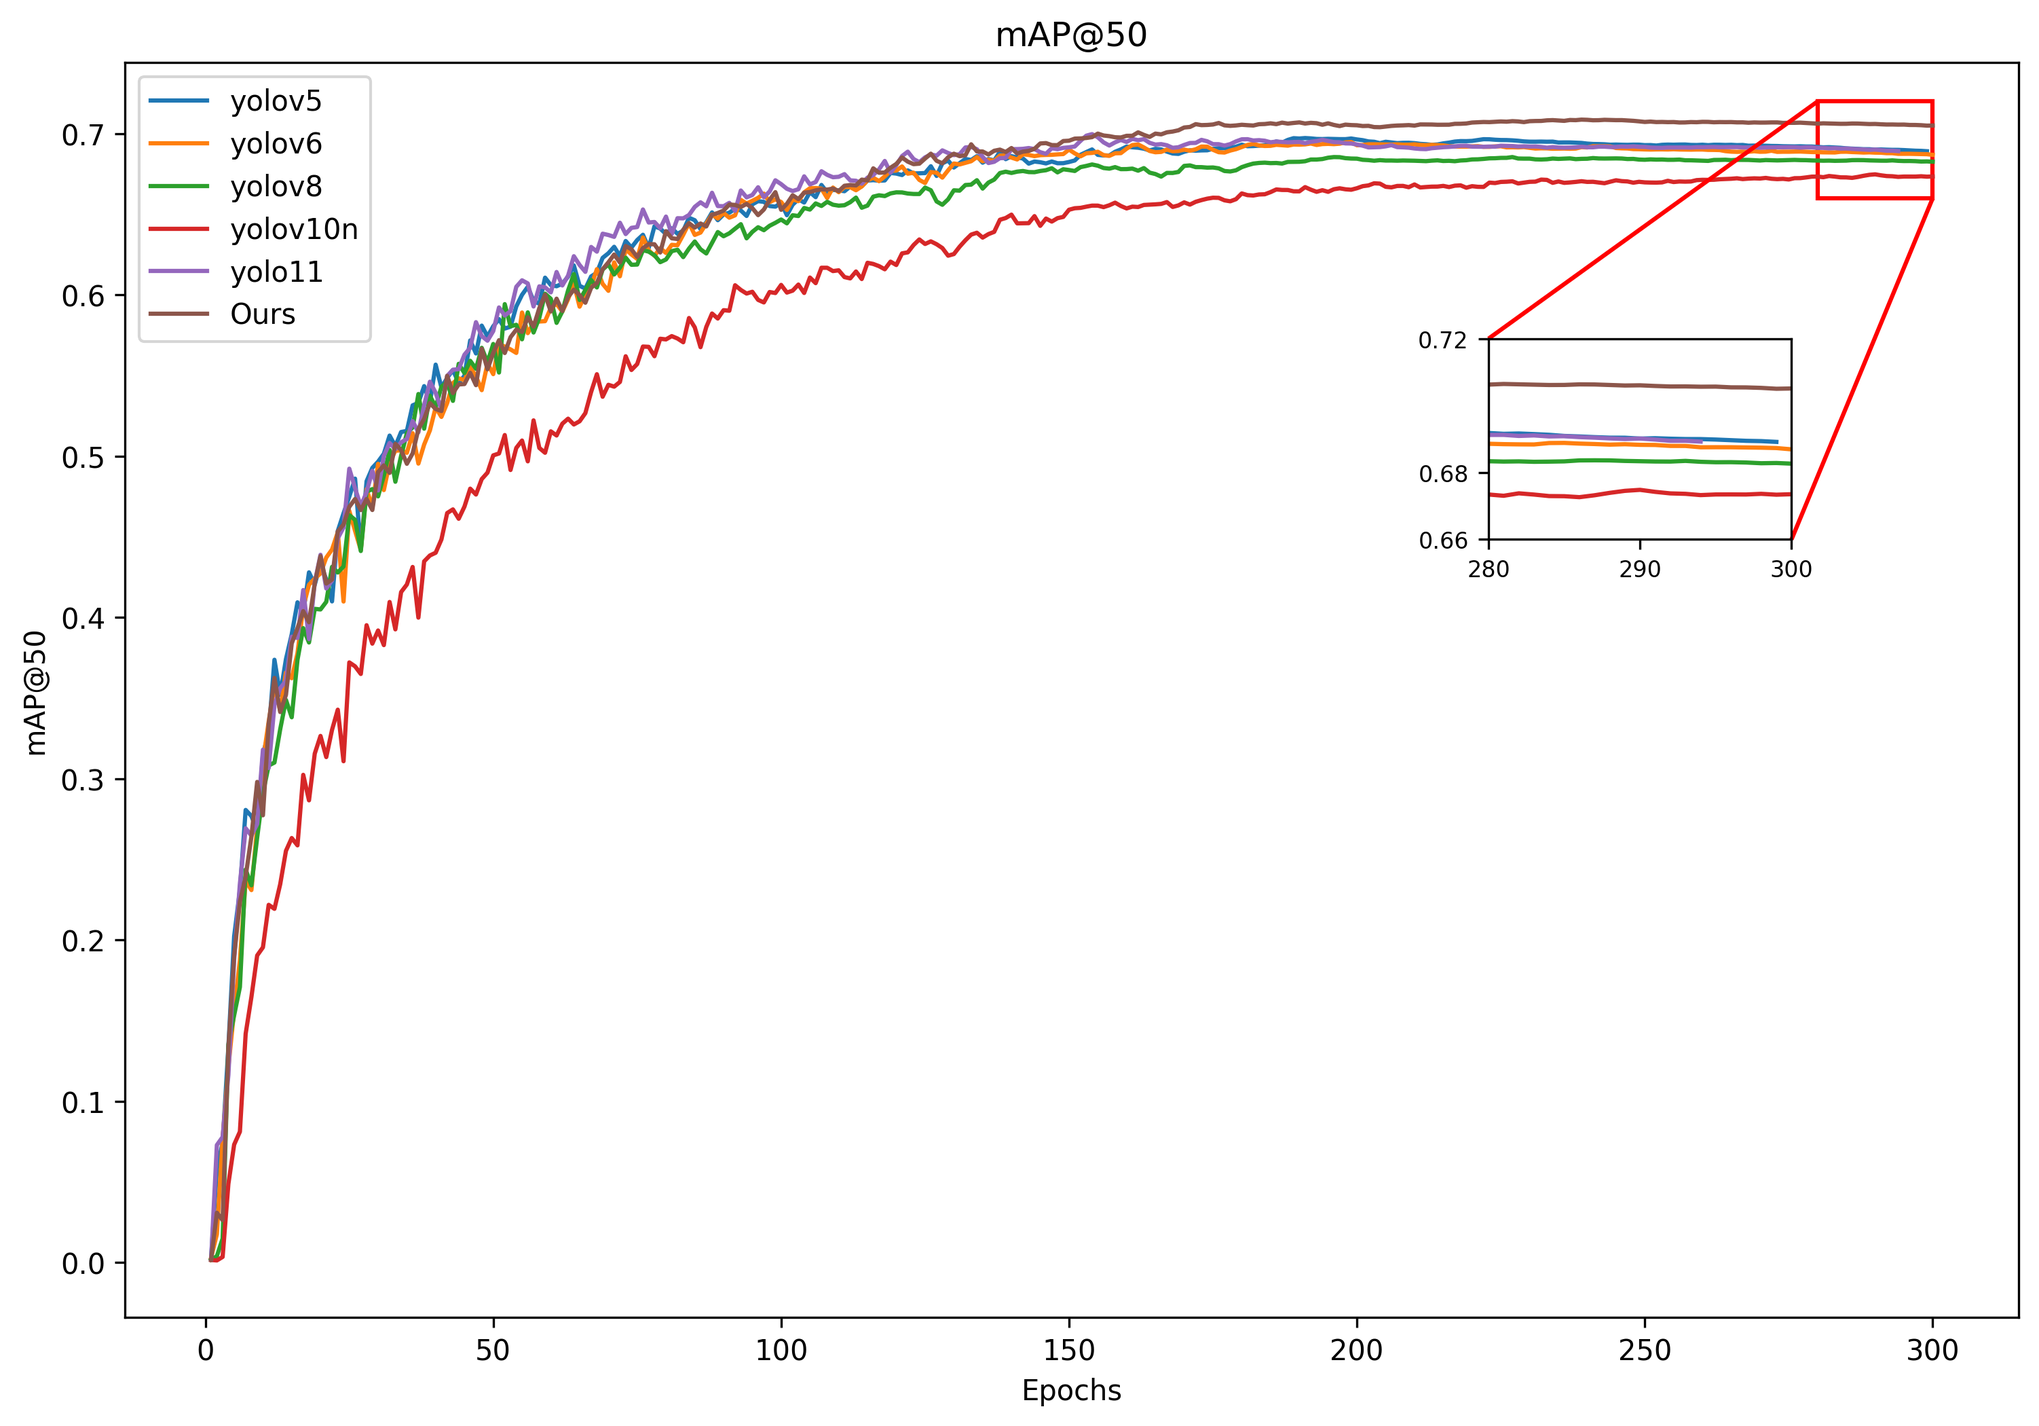
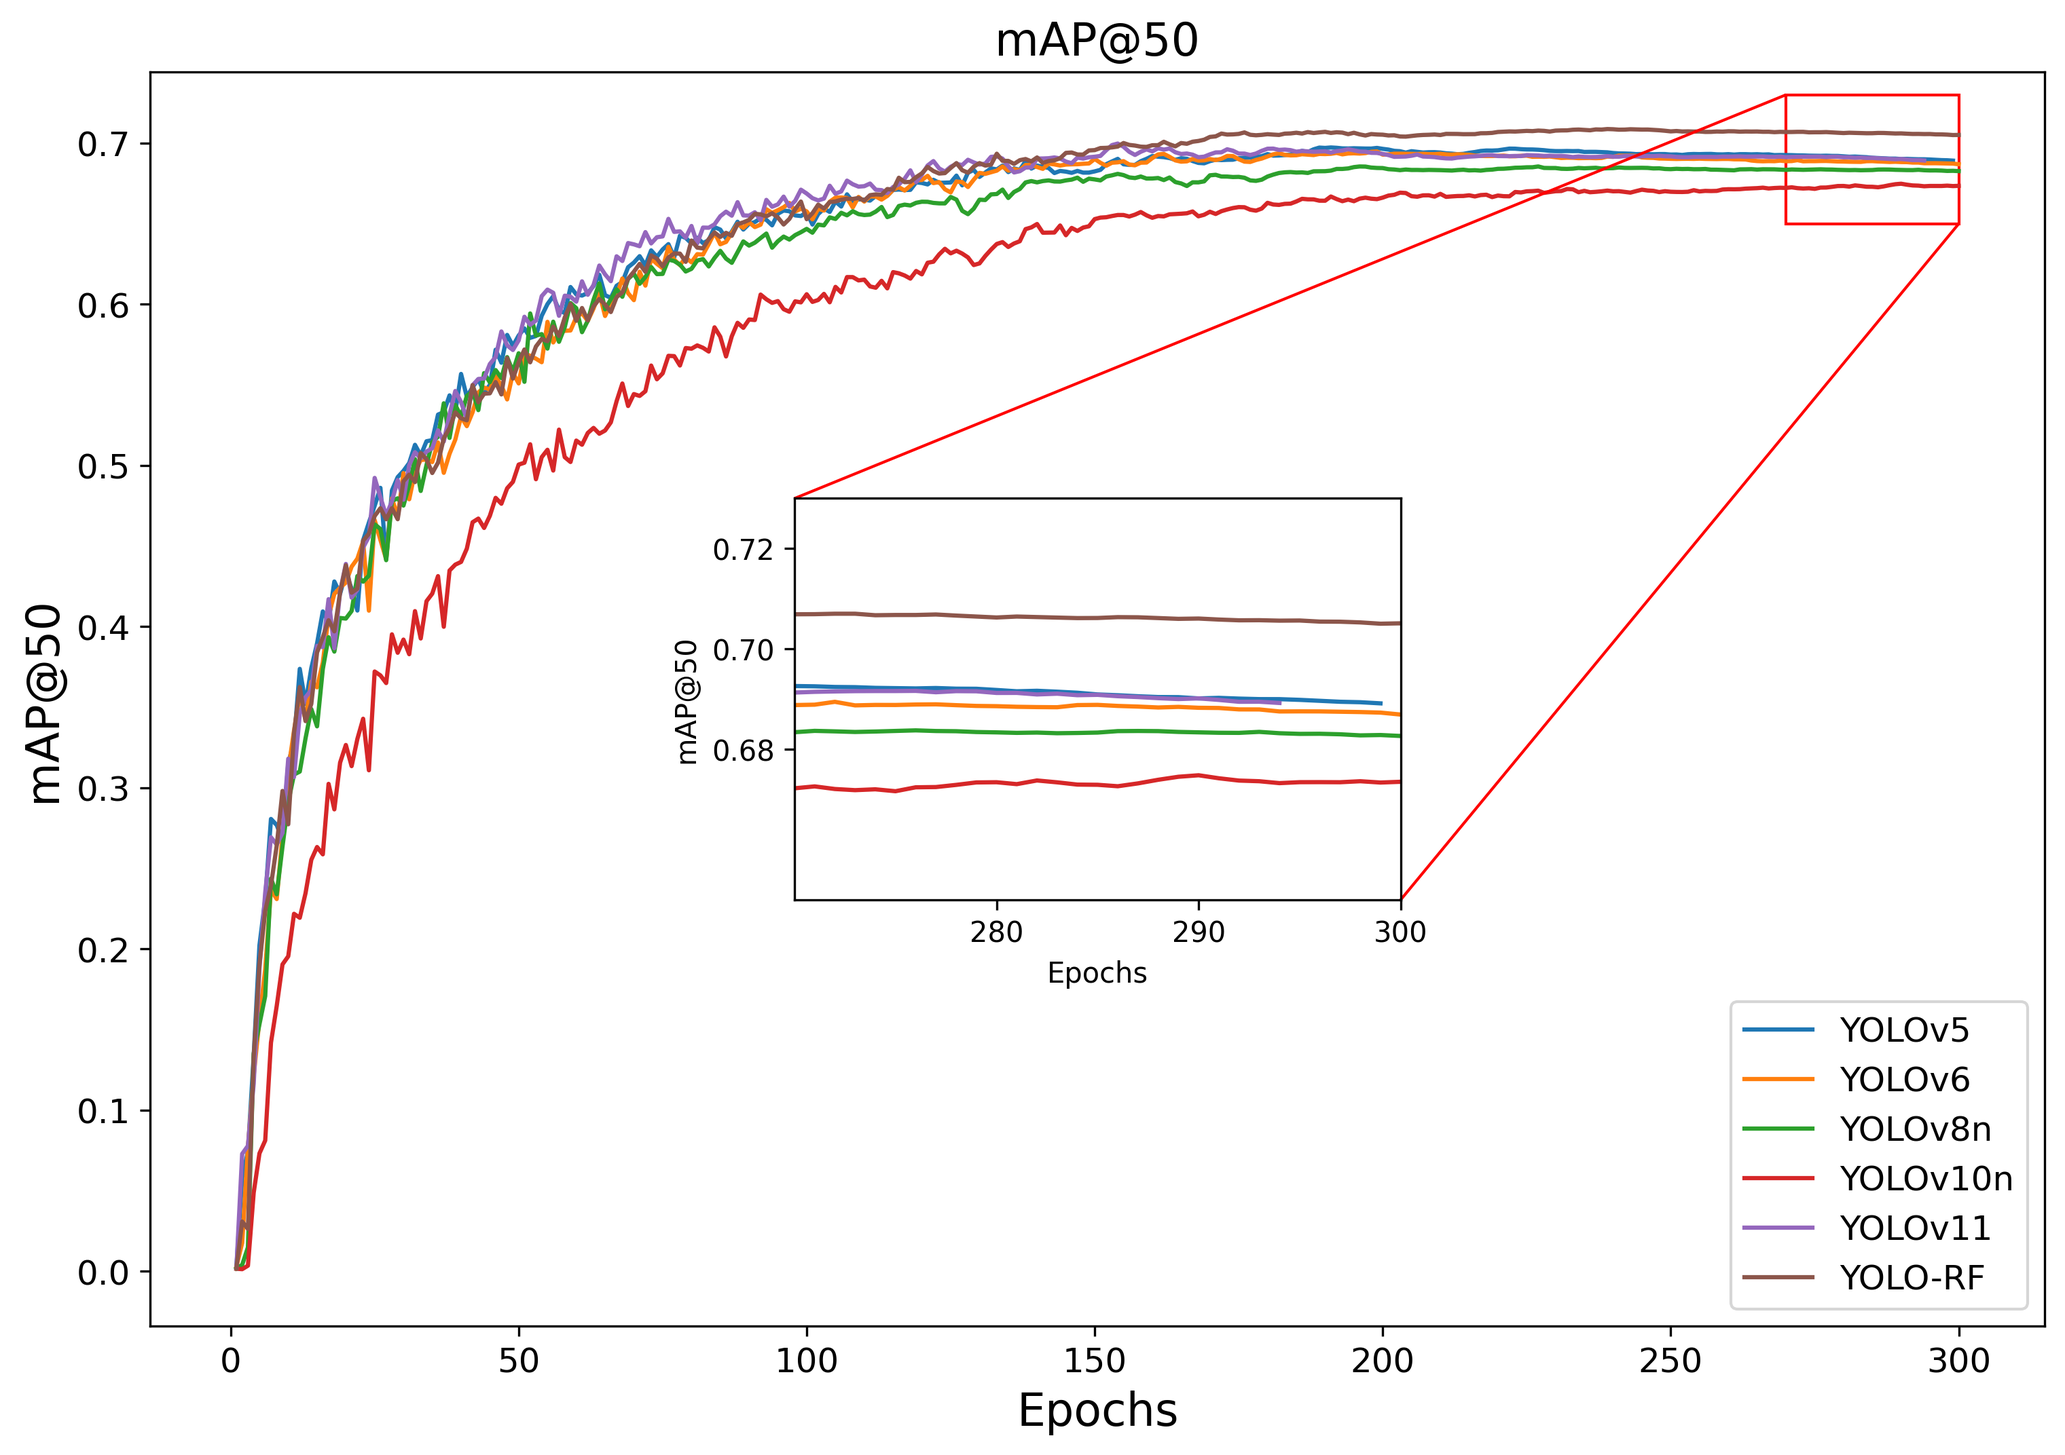
添加绘图

diff --git a/plot_maps/plot_single_map_stbd08-zoom-map50.py b/plot_maps/plot_single_map_stbd08-zoom-map50.py
@@ -4,22 +4,22 @@ from mpl_toolkits.axes_grid1.inset_locator import inset_axes, mark_inset
 
 # 训练结果列表
 results_files = [
-    '/final/improved-yolov11/runs/train/SCB3/yolov5/results.csv',
-    '/final/improved-yolov11/runs/train/SCB3/yolov6/results.csv',
-    '/final/improved-yolov11/runs/train/SCB3/yolov8/results.csv',
-    '/final/improved-yolov11/runs/train/SCB3/yolov10n/results.csv',
-    '/final/improved-yolov11/runs/train/SCB3/yolo11/results.csv',
-    '/final/improved-yolov11/runs/train/SCB3/yolo11-FPSC-RGCSPELAN/results.csv',
+    '/final/FRNet/runs/train/STBD-08/yolov5/results.csv',
+    '/final/FRNet/runs/train/STBD-08/yolov6/results.csv',
+    '/final/FRNet/runs/train/STBD-08/yolov8/results.csv',
+    '/final/FRNet/runs/train/STBD-08/yolov10n/results.csv',
+    '/final/FRNet/runs/train/STBD-08/yolo11/results.csv',
+    '/final/FRNet/runs/train/STBD-08/yolo11-FPSC-RGCSPELAN/results.csv',
 ]
 
 # 与results_files顺序对应
 custom_labels = [
-    'yolov5',
-    'yolov6',
-    'yolov8',
-    'yolov10n',
-    'yolo11',
-    'Ours',
+    'YOLOv5',
+    'YOLOv6',
+    'YOLOv8n',
+    'YOLOv10n',
+    'YOLOv11',
+    'YOLO-RF',
 ]
 
 def plot_metric_comparison_with_zoom(metric_key, metric_label, custom_labels):
@@ -37,15 +37,17 @@ def plot_metric_comparison_with_zoom(metric_key, metric_label, custom_labels):
         # 绘制主图
         plt.plot(df['epoch'], df[metric_key], label=custom_label)
 
-    plt.title(metric_label)
-    plt.xlabel('Epochs')
-    plt.ylabel(metric_label)
-    plt.legend()
+    plt.title(metric_label, fontsize=16)
+    plt.xlabel('Epochs', fontsize=16)
+    plt.ylabel(metric_label, fontsize=16)
+    plt.xticks(fontsize=12)  # 调整 x 轴刻度字体大小
+    plt.yticks(fontsize=12)  # 调整 y 轴刻度字体大小
+    plt.legend(fontsize=12)  # 调整图例字体大小
 
     # 添加放大镜
     ax_main = plt.gca()
-    ax_inset = inset_axes(ax_main, width="40%", height="40%", loc='center',
-                          bbox_to_anchor=(0.6, 0.5, 0.4, 0.4), bbox_transform=ax_main.transAxes)
+    ax_inset = inset_axes(ax_main, width="80%", height="80%", loc='center',
+                          bbox_to_anchor=(0.3, 0.3, 0.4, 0.4), bbox_transform=ax_main.transAxes)
 
     # 绘制放大图
     for file_path, custom_label in zip(results_files, custom_labels):
@@ -59,21 +61,22 @@ def plot_metric_comparison_with_zoom(metric_key, metric_label, custom_labels):
 
     # 设置放大图区域范围
     ax_inset.set_xlim(280, 300)  # 这里设置放大图的x轴范围
-    ax_inset.set_ylim(0.47, 0.52)  # 这里设置放大图的y轴范围
+    ax_inset.set_ylim(0.89, 0.93)  # 这里设置放大图的y轴范围
     ax_inset.set_xticks([280, 290, 300])
-    ax_inset.set_yticks([0.47, 0.50, 0.52])
-    ax_inset.tick_params(labelsize=8)
+    ax_inset.set_yticks([0.89, 0.90, 0.93])
+    ax_inset.tick_params(labelsize=10)
+    ax_inset.set_xlabel('Epochs', fontsize=10)  # 设置放大图 x 轴标签字体
+    ax_inset.set_ylabel(metric_label, fontsize=10)  # 设置放大图 y 轴标签字体
 
     # 标记放大区域
     mark_inset(ax_main, ax_inset, loc1=2, loc2=4, fc="none", ec="red", lw=1.5)
 
     # 保存并显示图像
-    save_path = f'/final/improved-yolov11/plot_results/scbd3/{metric_label}_zoomed.png'
+    save_path = f'/final/FRNet/plot_results/stbd08/{metric_label}_zoomed.png'
     plt.savefig(save_path, dpi=300, bbox_inches='tight')
     print(f"Saved plot to {save_path}")
     plt.show()
 
 if __name__ == '__main__':
     # 绘制mAP对比图并添加放大区域
-    # plot_metric_comparison_with_zoom('metrics/mAP50(B)', 'mAP@50', custom_labels)
-    plot_metric_comparison_with_zoom('metrics/mAP50-95(B)', 'mAP@50-95', custom_labels)
+    plot_metric_comparison_with_zoom('metrics/mAP50(B)', 'mAP@50', custom_labels)

diff --git a/plot_maps/plot_single_map_scb3-zoom-map50.py b/plot_maps/plot_single_map_scb3-zoom-map50.py
@@ -1,0 +1,91 @@
+import pandas as pd
+import matplotlib.pyplot as plt
+from matplotlib.patches import Rectangle
+from mpl_toolkits.axes_grid1.inset_locator import inset_axes, mark_inset
+
+# 训练结果列表
+results_files = [
+    '/final/FRNet/runs/train/SCB3/yolov5/results.csv',
+    '/final/FRNet/runs/train/SCB3/yolov6/results.csv',
+    '/final/FRNet/runs/train/SCB3/yolov8/results.csv',
+    '/final/FRNet/runs/train/SCB3/yolov10n/results.csv',
+    '/final/FRNet/runs/train/SCB3/yolo11/results.csv',
+    '/final/FRNet/runs/train/SCB3/yolo11-FPSC-RGCSPELAN/results.csv',
+]
+
+# 与results_files顺序对应
+custom_labels = [
+    'YOLOv5',
+    'YOLOv6',
+    'YOLOv8n',
+    'YOLOv10n',
+    'YOLOv11',
+    'YOLO-RF',
+]
+
+def plot_metric_comparison_with_zoom(metric_key, metric_label, custom_labels):
+    plt.figure(figsize=(12, 8))
+
+    # 主图绘制
+    for file_path, custom_label in zip(results_files, custom_labels):
+        df = pd.read_csv(file_path)
+        df.columns = df.columns.str.strip()  # 清理列名中的多余空格
+
+        if 'epoch' not in df.columns or metric_key not in df.columns:
+            print(f"Missing required columns in {file_path}. Available columns: {df.columns}")
+            continue
+
+        # 绘制主图
+        plt.plot(df['epoch'], df[metric_key], label=custom_label)
+
+    plt.title(metric_label, fontsize=16)
+    plt.xlabel('Epochs', fontsize=16)
+    plt.ylabel(metric_label, fontsize=16)
+    plt.xticks(fontsize=12)  # 调整 x 轴刻度字体大小
+    plt.yticks(fontsize=12)  # 调整 y 轴刻度字体大小
+    plt.legend(fontsize=12)  # 调整图例字体大小
+    # 添加放大镜
+    ax_main = plt.gca()
+    ax_inset = inset_axes(ax_main, width="80%", height="80%", loc='center', 
+                          bbox_to_anchor=(0.3, 0.3, 0.4, 0.4), bbox_transform=ax_main.transAxes)
+
+    # 绘制放大图
+    for file_path, custom_label in zip(results_files, custom_labels):
+        df = pd.read_csv(file_path)
+        df.columns = df.columns.str.strip()
+
+        if 'epoch' not in df.columns or metric_key not in df.columns:
+            continue
+
+        ax_inset.plot(df['epoch'], df[metric_key], label=custom_label)
+
+    # 定义放大区域
+    zoom_xmin, zoom_xmax = 270, 280  # 设定x轴放大区域
+    zoom_ymin, zoom_ymax = 0.65, 0.73  # 设定y轴放大区域（调整到放大区域）
+    # 设置放大图的坐标范围（对应蓝色区域）
+    ax_inset.set_xlim(zoom_xmin, zoom_xmax)
+    ax_inset.set_ylim(zoom_ymin, zoom_ymax)
+    ax_inset.set_xticks([280, 290, 300])
+    ax_inset.set_yticks([0.68, 0.70, 0.72])
+    ax_inset.tick_params(labelsize=10)
+    ax_inset.set_xlabel('Epochs', fontsize=10)  # 设置放大图 x 轴标签字体
+    ax_inset.set_ylabel(metric_label, fontsize=10)  # 设置放大图 y 轴标签字体
+
+    # # 在主图上添加红色框，标记被放大的区域(添加竖线)
+    # rect = Rectangle((zoom_xmin, zoom_ymin), zoom_xmax - zoom_xmin, zoom_ymax - zoom_ymin, 
+    #                  linewidth=1, edgecolor='red', facecolor='none')
+    # ax_main.add_patch(rect)
+
+    # 标记放大区域
+    mark_inset(ax_main, ax_inset, loc1=2, loc2=4, fc="none", ec="red", lw=1)
+
+    # 保存并显示图像
+    save_path = f'/final/FRNet/plot_results/scbd3/{metric_label}_zoomed.png'
+    plt.savefig(save_path, dpi=300, bbox_inches='tight')
+    print(f"Saved plot to {save_path}")
+    plt.show()
+
+if __name__ == '__main__':
+    # 绘制mAP对比图并添加放大区域
+    plot_metric_comparison_with_zoom('metrics/mAP50(B)', 'mAP@50', custom_labels)
+    # plot_metric_comparison_with_zoom('metrics/mAP50-95(B)', 'mAP@50-95', custom_labels)

diff --git a/plot_maps/plot_single_map_scb3-zoom-map50-95.py b/plot_maps/plot_single_map_scb3-zoom-map50-95.py
@@ -1,0 +1,91 @@
+import pandas as pd
+import matplotlib.pyplot as plt
+from matplotlib.patches import Rectangle
+from mpl_toolkits.axes_grid1.inset_locator import inset_axes, mark_inset
+
+# 训练结果列表
+results_files = [
+    '/final/FRNet/runs/train/SCB3/yolov5/results.csv',
+    '/final/FRNet/runs/train/SCB3/yolov6/results.csv',
+    '/final/FRNet/runs/train/SCB3/yolov8/results.csv',
+    '/final/FRNet/runs/train/SCB3/yolov10n/results.csv',
+    '/final/FRNet/runs/train/SCB3/yolo11/results.csv',
+    '/final/FRNet/runs/train/SCB3/yolo11-FPSC-RGCSPELAN/results.csv',
+]
+
+# 与results_files顺序对应
+custom_labels = [
+    'YOLOv5',
+    'YOLOv6',
+    'YOLOv8n',
+    'YOLOv10n',
+    'YOLOv11',
+    'YOLO-RF',
+]
+
+def plot_metric_comparison_with_zoom(metric_key, metric_label, custom_labels):
+    plt.figure(figsize=(12, 8))
+
+    # 主图绘制
+    for file_path, custom_label in zip(results_files, custom_labels):
+        df = pd.read_csv(file_path)
+        df.columns = df.columns.str.strip()  # 清理列名中的多余空格
+
+        if 'epoch' not in df.columns or metric_key not in df.columns:
+            print(f"Missing required columns in {file_path}. Available columns: {df.columns}")
+            continue
+
+        # 绘制主图
+        plt.plot(df['epoch'], df[metric_key], label=custom_label)
+
+    plt.title(metric_label, fontsize=16)
+    plt.xlabel('Epochs', fontsize=16)
+    plt.ylabel(metric_label, fontsize=16)
+    plt.xticks(fontsize=12)  # 调整 x 轴刻度字体大小
+    plt.yticks(fontsize=12)  # 调整 y 轴刻度字体大小
+    plt.legend(fontsize=12)  # 调整图例字体大小
+    # 添加放大镜
+    ax_main = plt.gca()
+    ax_inset = inset_axes(ax_main, width="80%", height="80%", loc='center', 
+                          bbox_to_anchor=(0.3, 0.3, 0.4, 0.4), bbox_transform=ax_main.transAxes)
+
+    # 绘制放大图
+    for file_path, custom_label in zip(results_files, custom_labels):
+        df = pd.read_csv(file_path)
+        df.columns = df.columns.str.strip()
+
+        if 'epoch' not in df.columns or metric_key not in df.columns:
+            continue
+
+        ax_inset.plot(df['epoch'], df[metric_key], label=custom_label)
+
+    # 定义放大区域
+    zoom_xmin, zoom_xmax = 270, 280  # 设定x轴放大区域
+    zoom_ymin, zoom_ymax = 0.47, 0.52  # 设定y轴放大区域（调整到放大区域）
+    # 设置放大图的坐标范围（红色色区域）
+    ax_inset.set_xlim(zoom_xmin, zoom_xmax)
+    ax_inset.set_ylim(zoom_ymin, zoom_ymax)
+    ax_inset.set_xticks([280, 290, 300])
+    ax_inset.set_yticks([0.48, 0.50, 0.52])
+    ax_inset.tick_params(labelsize=10)
+    ax_inset.set_xlabel('Epochs', fontsize=10)  # 设置放大图 x 轴标签字体
+    ax_inset.set_ylabel(metric_label, fontsize=10)  # 设置放大图 y 轴标签字体
+
+    # # 在主图上添加红色框，标记被放大的区域(添加竖线)
+    # rect = Rectangle((zoom_xmin, zoom_ymin), zoom_xmax - zoom_xmin, zoom_ymax - zoom_ymin, 
+    #                  linewidth=1, edgecolor='red', facecolor='none')
+    # ax_main.add_patch(rect)
+
+    # 标记放大区域
+    mark_inset(ax_main, ax_inset, loc1=2, loc2=4, fc="none", ec="red", lw=1)
+
+    # 保存并显示图像
+    save_path = f'/final/FRNet/plot_results/scbd3/{metric_label}_zoomed.png'
+    plt.savefig(save_path, dpi=300, bbox_inches='tight')
+    print(f"Saved plot to {save_path}")
+    plt.show()
+
+if __name__ == '__main__':
+    # 绘制mAP对比图并添加放大区域
+    # plot_metric_comparison_with_zoom('metrics/mAP50(B)', 'mAP@50', custom_labels)
+    plot_metric_comparison_with_zoom('metrics/mAP50-95(B)', 'mAP@50-95', custom_labels)

diff --git a/plot_maps/plot_single_map_stbd08-zoom-map50-95.py b/plot_maps/plot_single_map_stbd08-zoom-map50-95.py
@@ -4,22 +4,22 @@ from mpl_toolkits.axes_grid1.inset_locator import inset_axes, mark_inset
 
 # 训练结果列表
 results_files = [
-    '/final/improved-yolov11/runs/train/STBD-08/yolov5/results.csv',
-    '/final/improved-yolov11/runs/train/STBD-08/yolov6/results.csv',
-    '/final/improved-yolov11/runs/train/STBD-08/yolov8/results.csv',
-    '/final/improved-yolov11/runs/train/STBD-08/yolov10n/results.csv',
-    '/final/improved-yolov11/runs/train/STBD-08/yolo11/results.csv',
-    '/final/improved-yolov11/runs/train/STBD-08/yolo11-FPSC-RGCSPELAN/results.csv',
+    '/final/FRNet/runs/train/STBD-08/yolov5/results.csv',
+    '/final/FRNet/runs/train/STBD-08/yolov6/results.csv',
+    '/final/FRNet/runs/train/STBD-08/yolov8/results.csv',
+    '/final/FRNet/runs/train/STBD-08/yolov10n/results.csv',
+    '/final/FRNet/runs/train/STBD-08/yolo11/results.csv',
+    '/final/FRNet/runs/train/STBD-08/yolo11-FPSC-RGCSPELAN/results.csv',
 ]
 
 # 与results_files顺序对应
 custom_labels = [
-    'yolov5',
-    'yolov6',
-    'yolov8',
-    'yolov10n',
-    'yolo11',
-    'Ours',
+    'YOLOv5',
+    'YOLOv6',
+    'YOLOv8n',
+    'YOLOv10n',
+    'YOLOv11',
+    'YOLO-RF',
 ]
 
 def plot_metric_comparison_with_zoom(metric_key, metric_label, custom_labels):
@@ -37,15 +37,17 @@ def plot_metric_comparison_with_zoom(metric_key, metric_label, custom_labels):
         # 绘制主图
         plt.plot(df['epoch'], df[metric_key], label=custom_label)
 
-    plt.title(metric_label)
-    plt.xlabel('Epochs')
-    plt.ylabel(metric_label)
-    plt.legend()
+    plt.title(metric_label, fontsize=16)
+    plt.xlabel('Epochs', fontsize=16)
+    plt.ylabel(metric_label, fontsize=16)
+    plt.xticks(fontsize=12)  # 调整 x 轴刻度字体大小
+    plt.yticks(fontsize=12)  # 调整 y 轴刻度字体大小
+    plt.legend(fontsize=12)  # 调整图例字体大小
 
     # 添加放大镜
     ax_main = plt.gca()
-    ax_inset = inset_axes(ax_main, width="40%", height="40%", loc='center',
-                          bbox_to_anchor=(0.6, 0.5, 0.4, 0.4), bbox_transform=ax_main.transAxes)
+    ax_inset = inset_axes(ax_main, width="80%", height="80%", loc='center',
+                          bbox_to_anchor=(0.3, 0.3, 0.4, 0.4), bbox_transform=ax_main.transAxes)
 
     # 绘制放大图
     for file_path, custom_label in zip(results_files, custom_labels):
@@ -61,19 +63,20 @@ def plot_metric_comparison_with_zoom(metric_key, metric_label, custom_labels):
     ax_inset.set_xlim(280, 300)  # 这里设置放大图的x轴范围
     ax_inset.set_ylim(0.71, 0.78)  # 这里设置放大图的y轴范围
     ax_inset.set_xticks([280, 290, 300])
-    ax_inset.set_yticks([0.71, 0.75, 0.78])
-    ax_inset.tick_params(labelsize=8)
+    ax_inset.set_yticks([0.72, 0.75, 0.78])
+    ax_inset.tick_params(labelsize=10)
+    ax_inset.set_xlabel('Epochs', fontsize=10)  # 设置放大图 x 轴标签字体
+    ax_inset.set_ylabel(metric_label, fontsize=10)  # 设置放大图 y 轴标签字体
 
     # 标记放大区域
     mark_inset(ax_main, ax_inset, loc1=2, loc2=4, fc="none", ec="red", lw=1.5)
 
     # 保存并显示图像
-    save_path = f'/final/improved-yolov11/plot_results/stbd08/{metric_label}_zoomed.png'
+    save_path = f'/final/FRNet/plot_results/stbd08/{metric_label}_zoomed.png'
     plt.savefig(save_path, dpi=300, bbox_inches='tight')
     print(f"Saved plot to {save_path}")
     plt.show()
 
 if __name__ == '__main__':
     # 绘制mAP对比图并添加放大区域
-    # plot_metric_comparison_with_zoom('metrics/mAP50(B)', 'mAP@50', custom_labels)
     plot_metric_comparison_with_zoom('metrics/mAP50-95(B)', 'mAP@50-95', custom_labels)

diff --git a/get_COCO_metrice.py b/get_COCO_metrice.py
@@ -1,0 +1,30 @@
+import warnings
+warnings.filterwarnings('ignore')
+import argparse
+from pycocotools.coco import COCO
+from pycocotools.cocoeval import COCOeval
+from tidecv import TIDE, datasets
+
+def parse_opt():
+    parser = argparse.ArgumentParser()
+    parser.add_argument('--anno_json', type=str, default='data.json', help='label coco json path')
+    parser.add_argument('--pred_json', type=str, default='', help='pred coco json path')
+    
+    return parser.parse_known_args()[0]
+
+if __name__ == '__main__':
+    opt = parse_opt()
+    anno_json = opt.anno_json
+    pred_json = opt.pred_json
+    
+    anno = COCO(anno_json)  # init annotations api
+    pred = anno.loadRes(pred_json)  # init predictions api
+    eval = COCOeval(anno, pred, 'bbox')
+    eval.evaluate()
+    eval.accumulate()
+    eval.summarize()
+
+    tide = TIDE()
+    tide.evaluate_range(datasets.COCO(anno_json), datasets.COCOResult(pred_json), mode=TIDE.BOX)
+    tide.summarize()
+    tide.plot(out_dir='result')
